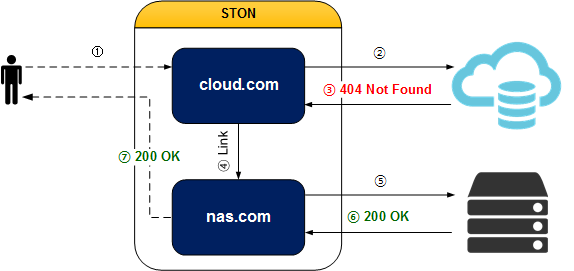
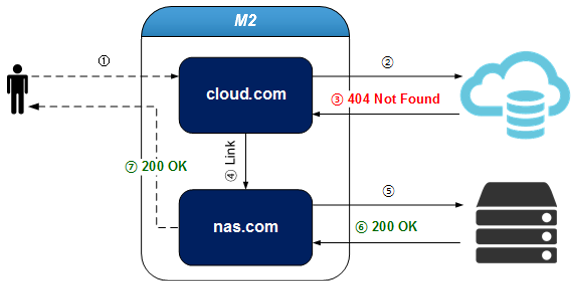
1
1

Changed region(s): [[0.0, 0.0, 1.0, 1.0]]

diff --git a/admin/adv_vhost.rst b/admin/adv_vhost.rst
@@ -369,12 +369,27 @@ Redirect 추적
 
 
 
+고급 기능 ``powered by M2``
+====================================
+
+이외에 실서비스에서 즉시 활용 가능한 다양한 `인프라 구성 패턴 <https://csp-kr.readthedocs.io/ko/latest/patterns/pattern_infra.html>`_ 이 존재한다. 
+`인프라 구성 패턴 <https://csp-kr.readthedocs.io/ko/latest/patterns/pattern_infra.html>`_ 은 `M2 파이프라인 플랫폼 <https://m2-kr-next.readthedocs.io/>`_ 의 `이미지 엔진 <https://m2-kr.readthedocs.io/ko/latest/guide/image.html>`_ 에 기반하여 구현된다.
+
+
 .. _adv-vhost-link:
 
 가상호스트 링크
-====================================
+-------------------------------------------
 
 콘텐츠가 여러 원본에 분산되어 있다면, 가상호스트 링크를 활용하여 콘텐츠가 통합되어 있는 것처럼 서비스가 가능하다.
+
+
+.. note::
+
+   - 이 기능을 활용하면 `인프라 구성 패턴 <https://csp-kr.readthedocs.io/ko/latest/patterns/pattern_infra.html>`_ 의 위치 투명성을 손쉽게 구현할 수 있다.
+
+
+
 특히 On-Premise에서 클라우드로 스토리지를 마이그레이션하거나, 스토리지의 용량, 비용 등의 이유로 콘텐츠가 분산되어 있는 환경에서 유용하다.
 
 .. figure:: img/adv_vhost_link.png

diff --git a/admin/image.rst b/admin/image.rst
@@ -205,7 +205,7 @@ Format 변경
 ====================================
 
 이외에 실서비스에서 즉시 활용 가능한 다양한 `이미지 서비스 패턴 <https://csp-kr.readthedocs.io/ko/latest/patterns/pattern_image.html>`_ 이 존재한다. 
-`이미지 서비스 패턴 <https://csp-kr.readthedocs.io/ko/latest/patterns/pattern_image.html>`_ 은 `M2 파이프라인 플랫폼 <https://m2-kr-next.readthedocs.io/>`_ 의 `이미지 엔진 <https://m2-kr.readthedocs.io/ko/latest/guide/imagetool.html>`_ 에 기반하여 구현된다.
+`이미지 서비스 패턴 <https://csp-kr.readthedocs.io/ko/latest/patterns/pattern_image.html>`_ 은 `M2 파이프라인 플랫폼 <https://m2-kr.readthedocs.io/>`_ 의 `이미지 엔진 <https://m2-kr.readthedocs.io/ko/latest/guide/imagetool.html>`_ 에 기반하여 구현된다.
 
 
 .. _media-dims-optimize:
